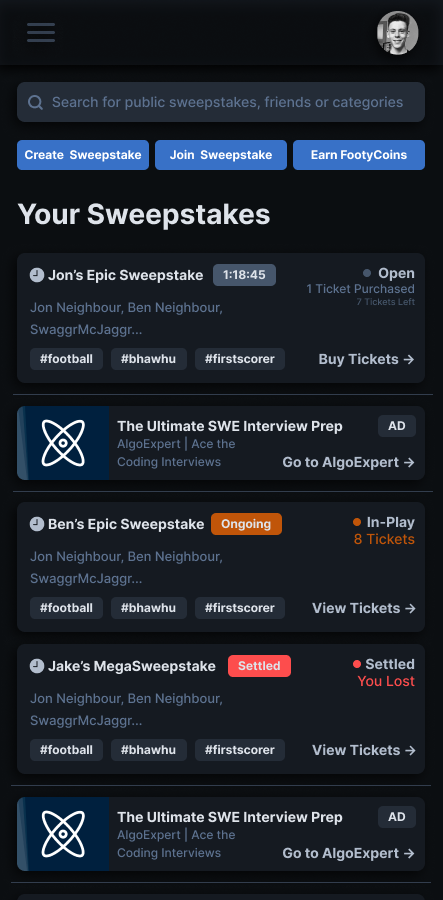
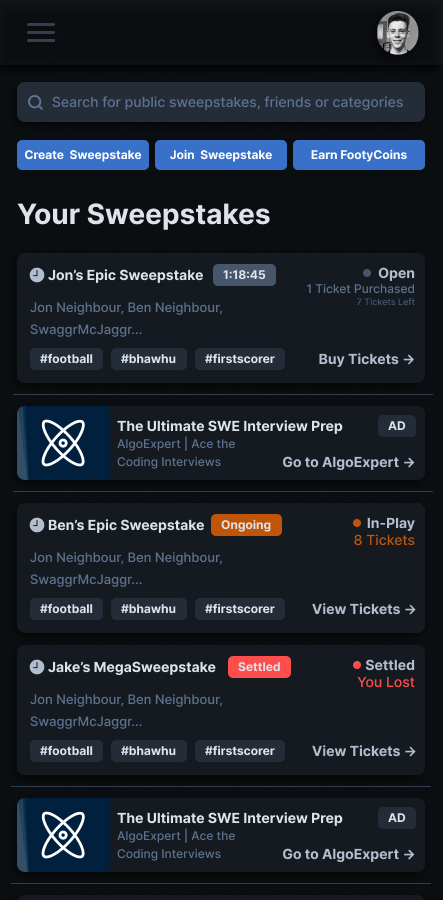
dev: Adding more designs to README

diff --git a/README.md b/README.md
@@ -6,4 +6,5 @@
 
 ### Mobile View
 
-<img src="./designs/UI/Dashboard/Mobile/Iteration 3 - Dashboard.PNG" />
+<img src="./designs/UI/Dashboard/Mobile/Iteration 3 - Dashboard.png" />
+<img src="./designs/UI/Dashboard/Mobile/Iteration 3 - Dashboard (Sidebar).png" />
